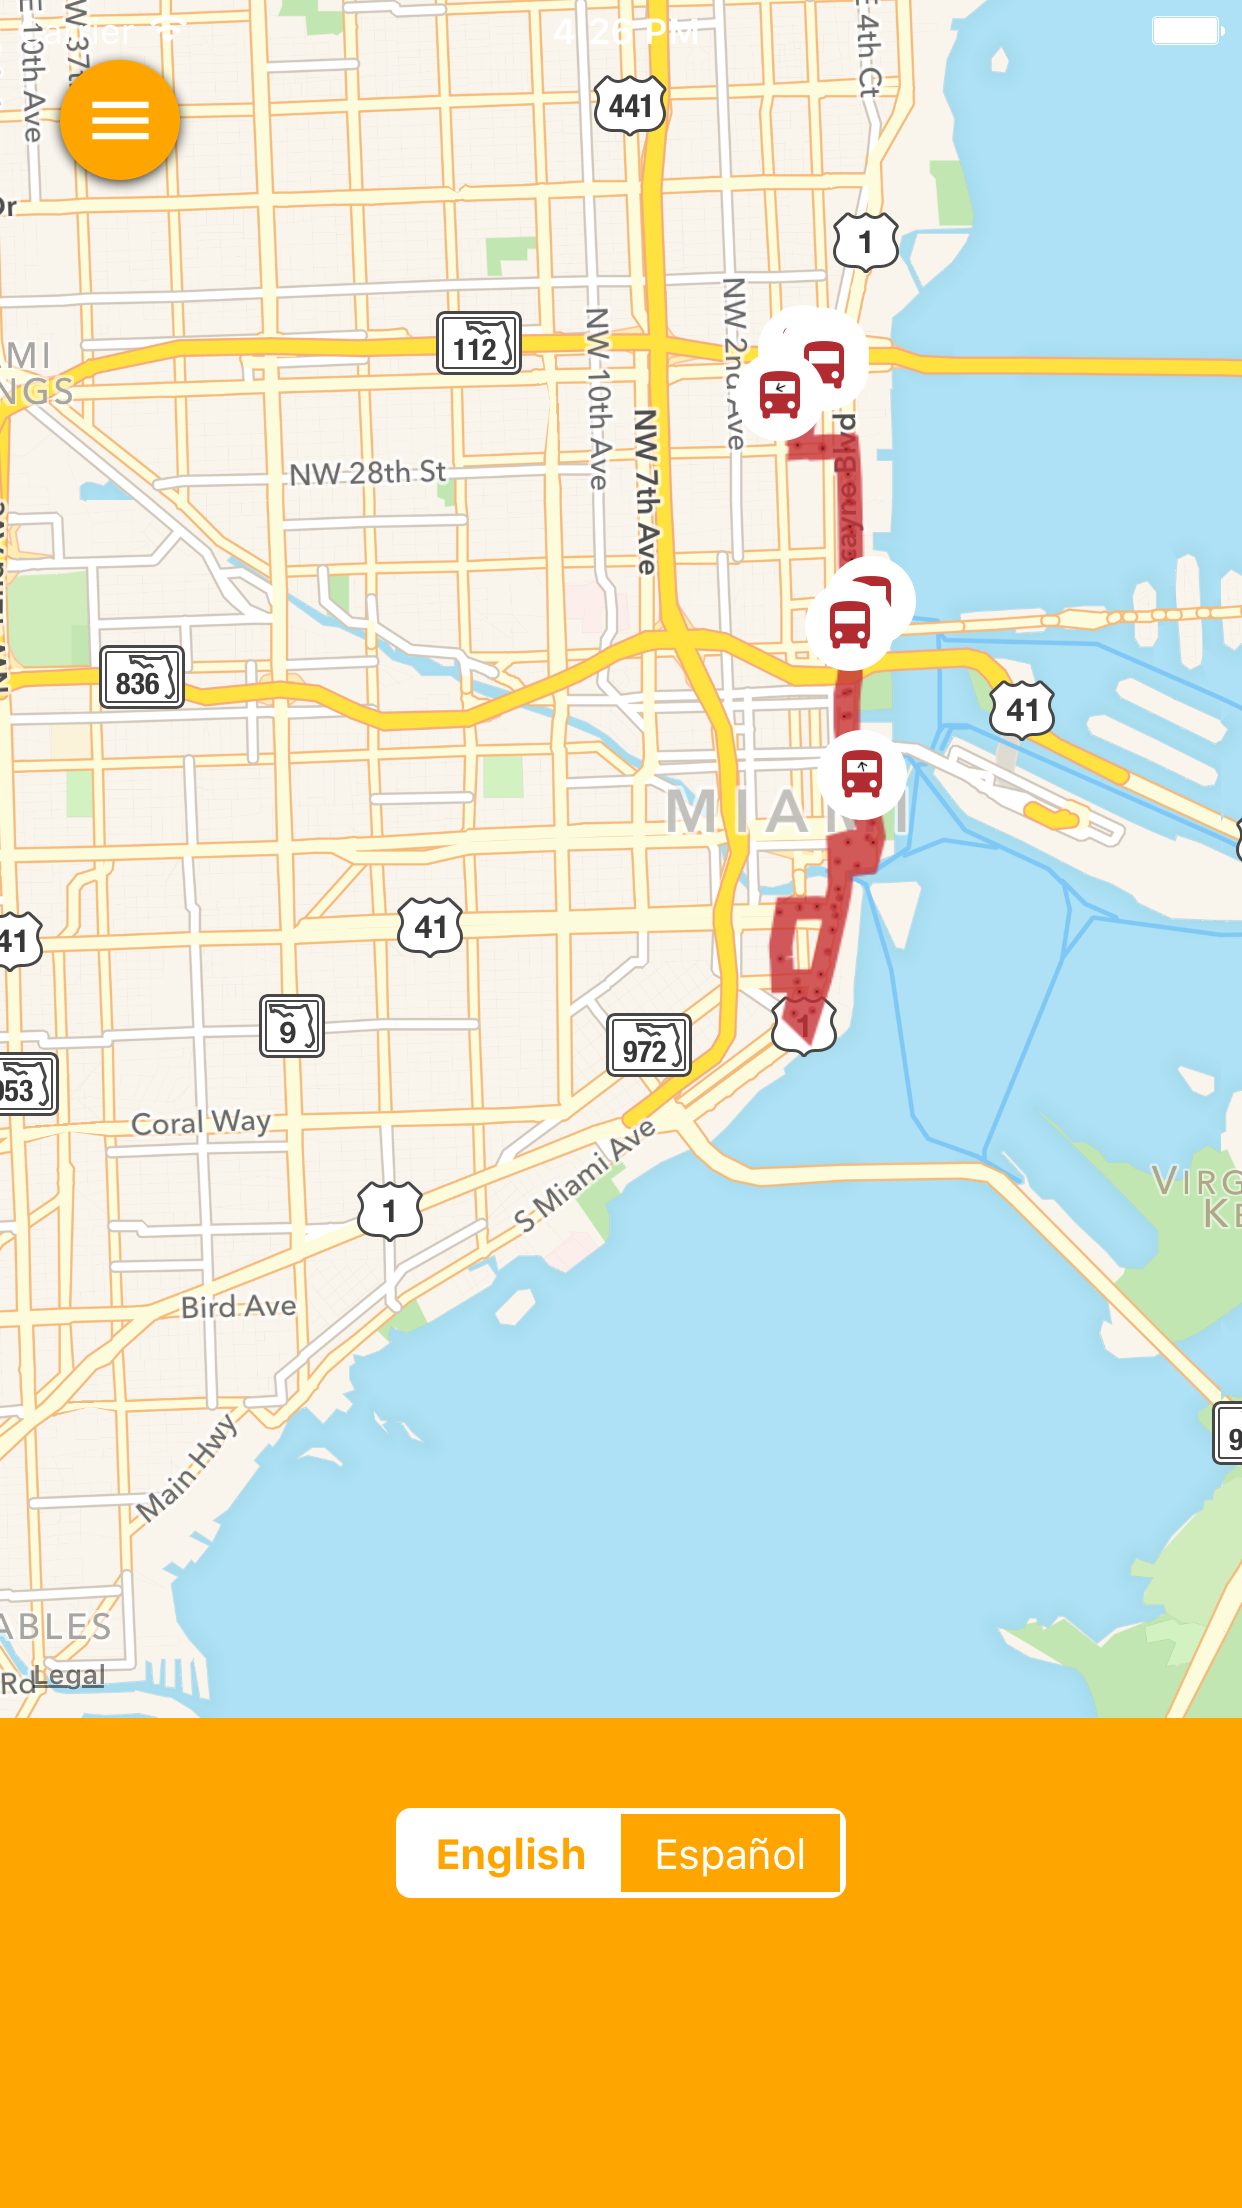
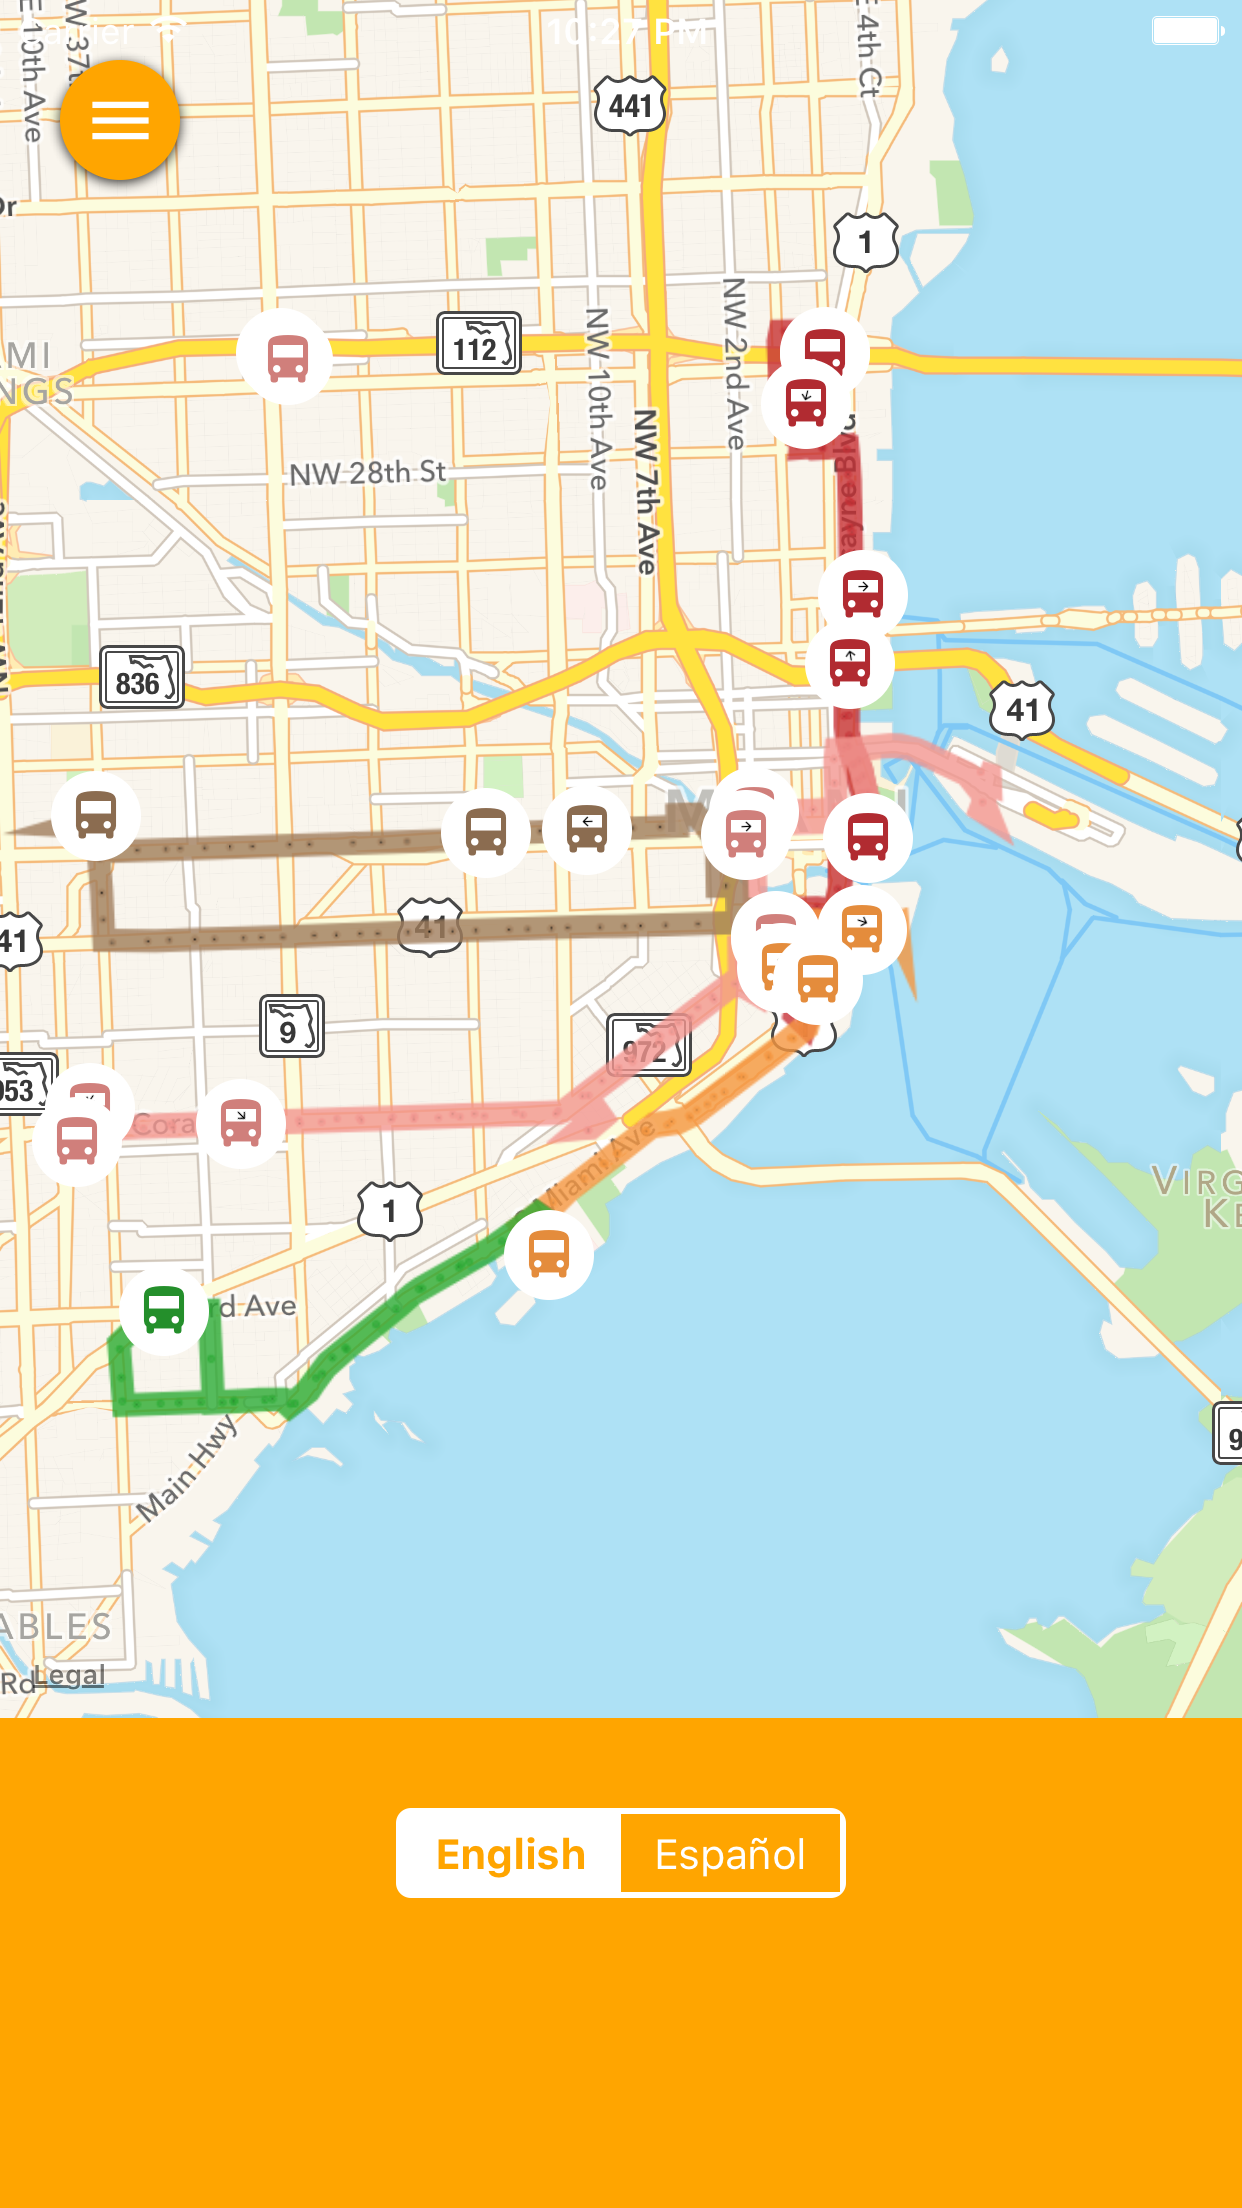
add framed screenshots

diff --git a/ios/screenshots/screenshots.html b/ios/screenshots/screenshots.html
@@ -76,7 +76,7 @@
       <table>
         
           <tr>
-            <th colspan="4">
+            <th colspan="5">
               <span class="deviceName">iPad</span>
             </th>
           </tr>
@@ -134,10 +134,23 @@
                 </a>
               </td>
             
+              
+              <td>
+                
+                
+                <a href="./en-US/iPadAir-05RouteInfo.png" target="_blank" class="screenshotLink">
+                  <img class="screenshot"
+                         src="./en-US/iPadAir-05RouteInfo.png"
+                       style="width: 100%;"
+                         alt="en-US iPad"
+                data-counter="5" />
+                </a>
+              </td>
+            
           </tr>
         
           <tr>
-            <th colspan="4">
+            <th colspan="5">
               <span class="deviceName">iPad Pro</span>
             </th>
           </tr>
@@ -152,7 +165,7 @@
                          src="./en-US/iPadPro-01Initial.png"
                        style="width: 100%;"
                          alt="en-US iPad Pro"
-                data-counter="5" />
+                data-counter="6" />
                 </a>
               </td>
             
@@ -165,7 +178,7 @@
                          src="./en-US/iPadPro-02OpenDrawer.png"
                        style="width: 100%;"
                          alt="en-US iPad Pro"
-                data-counter="6" />
+                data-counter="7" />
                 </a>
               </td>
             
@@ -178,7 +191,7 @@
                          src="./en-US/iPadPro-03ToggleRoute.png"
                        style="width: 100%;"
                          alt="en-US iPad Pro"
-                data-counter="7" />
+                data-counter="8" />
                 </a>
               </td>
             
@@ -191,14 +204,27 @@
                          src="./en-US/iPadPro-04CloseMap.png"
                        style="width: 100%;"
                          alt="en-US iPad Pro"
-                data-counter="8" />
+                data-counter="9" />
+                </a>
+              </td>
+            
+              
+              <td>
+                
+                
+                <a href="./en-US/iPadPro-05RouteInfo.png" target="_blank" class="screenshotLink">
+                  <img class="screenshot"
+                         src="./en-US/iPadPro-05RouteInfo.png"
+                       style="width: 100%;"
+                         alt="en-US iPad Pro"
+                data-counter="10" />
                 </a>
               </td>
             
           </tr>
         
           <tr>
-            <th colspan="4">
+            <th colspan="5">
               <span class="deviceName">iPhone4 (3.5-Inch)</span>
             </th>
           </tr>
@@ -213,7 +239,7 @@
                          src="./en-US/iPhone4s-01Initial.png"
                        style="width: 100%;"
                          alt="en-US iPhone4 (3.5-Inch)"
-                data-counter="9" />
+                data-counter="11" />
                 </a>
               </td>
             
@@ -226,7 +252,7 @@
                          src="./en-US/iPhone4s-02OpenDrawer.png"
                        style="width: 100%;"
                          alt="en-US iPhone4 (3.5-Inch)"
-                data-counter="10" />
+                data-counter="12" />
                 </a>
               </td>
             
@@ -239,7 +265,7 @@
                          src="./en-US/iPhone4s-03ToggleRoute.png"
                        style="width: 100%;"
                          alt="en-US iPhone4 (3.5-Inch)"
-                data-counter="11" />
+                data-counter="13" />
                 </a>
               </td>
             
@@ -252,14 +278,27 @@
                          src="./en-US/iPhone4s-04CloseMap.png"
                        style="width: 100%;"
                          alt="en-US iPhone4 (3.5-Inch)"
-                data-counter="12" />
+                data-counter="14" />
+                </a>
+              </td>
+            
+              
+              <td>
+                
+                
+                <a href="./en-US/iPhone4s-05RouteInfo.png" target="_blank" class="screenshotLink">
+                  <img class="screenshot"
+                         src="./en-US/iPhone4s-05RouteInfo.png"
+                       style="width: 100%;"
+                         alt="en-US iPhone4 (3.5-Inch)"
+                data-counter="15" />
                 </a>
               </td>
             
           </tr>
         
           <tr>
-            <th colspan="4">
+            <th colspan="5">
               <span class="deviceName">iPhone5 (4-Inch)</span>
             </th>
           </tr>
@@ -274,7 +313,7 @@
                          src="./en-US/iPhone5-01Initial.png"
                        style="width: 100%;"
                          alt="en-US iPhone5 (4-Inch)"
-                data-counter="13" />
+                data-counter="16" />
                 </a>
               </td>
             
@@ -287,7 +326,7 @@
                          src="./en-US/iPhone5-02OpenDrawer.png"
                        style="width: 100%;"
                          alt="en-US iPhone5 (4-Inch)"
-                data-counter="14" />
+                data-counter="17" />
                 </a>
               </td>
             
@@ -300,7 +339,7 @@
                          src="./en-US/iPhone5-03ToggleRoute.png"
                        style="width: 100%;"
                          alt="en-US iPhone5 (4-Inch)"
-                data-counter="15" />
+                data-counter="18" />
                 </a>
               </td>
             
@@ -313,14 +352,27 @@
                          src="./en-US/iPhone5-04CloseMap.png"
                        style="width: 100%;"
                          alt="en-US iPhone5 (4-Inch)"
-                data-counter="16" />
+                data-counter="19" />
+                </a>
+              </td>
+            
+              
+              <td>
+                
+                
+                <a href="./en-US/iPhone5-05RouteInfo.png" target="_blank" class="screenshotLink">
+                  <img class="screenshot"
+                         src="./en-US/iPhone5-05RouteInfo.png"
+                       style="width: 100%;"
+                         alt="en-US iPhone5 (4-Inch)"
+                data-counter="20" />
                 </a>
               </td>
             
           </tr>
         
           <tr>
-            <th colspan="4">
+            <th colspan="5">
               <span class="deviceName">iPhone6 (4.7-Inch)</span>
             </th>
           </tr>
@@ -335,7 +387,7 @@
                          src="./en-US/iPhone6-01Initial.png"
                        style="width: 100%;"
                          alt="en-US iPhone6 (4.7-Inch)"
-                data-counter="17" />
+                data-counter="21" />
                 </a>
               </td>
             
@@ -348,7 +400,7 @@
                          src="./en-US/iPhone6-02OpenDrawer.png"
                        style="width: 100%;"
                          alt="en-US iPhone6 (4.7-Inch)"
-                data-counter="18" />
+                data-counter="22" />
                 </a>
               </td>
             
@@ -361,7 +413,7 @@
                          src="./en-US/iPhone6-03ToggleRoute.png"
                        style="width: 100%;"
                          alt="en-US iPhone6 (4.7-Inch)"
-                data-counter="19" />
+                data-counter="23" />
                 </a>
               </td>
             
@@ -374,14 +426,27 @@
                          src="./en-US/iPhone6-04CloseMap.png"
                        style="width: 100%;"
                          alt="en-US iPhone6 (4.7-Inch)"
-                data-counter="20" />
+                data-counter="24" />
+                </a>
+              </td>
+            
+              
+              <td>
+                
+                
+                <a href="./en-US/iPhone6-05RouteInfo.png" target="_blank" class="screenshotLink">
+                  <img class="screenshot"
+                         src="./en-US/iPhone6-05RouteInfo.png"
+                       style="width: 100%;"
+                         alt="en-US iPhone6 (4.7-Inch)"
+                data-counter="25" />
                 </a>
               </td>
             
           </tr>
         
           <tr>
-            <th colspan="4">
+            <th colspan="5">
               <span class="deviceName">iPhone6Plus (5.5-Inch)</span>
             </th>
           </tr>
@@ -396,7 +461,7 @@
                          src="./en-US/iPhone6Plus-01Initial.png"
                        style="width: 100%;"
                          alt="en-US iPhone6Plus (5.5-Inch)"
-                data-counter="21" />
+                data-counter="26" />
                 </a>
               </td>
             
@@ -409,7 +474,7 @@
                          src="./en-US/iPhone6Plus-02OpenDrawer.png"
                        style="width: 100%;"
                          alt="en-US iPhone6Plus (5.5-Inch)"
-                data-counter="22" />
+                data-counter="27" />
                 </a>
               </td>
             
@@ -422,7 +487,7 @@
                          src="./en-US/iPhone6Plus-03ToggleRoute.png"
                        style="width: 100%;"
                          alt="en-US iPhone6Plus (5.5-Inch)"
-                data-counter="23" />
+                data-counter="28" />
                 </a>
               </td>
             
@@ -435,7 +500,20 @@
                          src="./en-US/iPhone6Plus-04CloseMap.png"
                        style="width: 100%;"
                          alt="en-US iPhone6Plus (5.5-Inch)"
-                data-counter="24" />
+                data-counter="29" />
+                </a>
+              </td>
+            
+              
+              <td>
+                
+                
+                <a href="./en-US/iPhone6Plus-05RouteInfo.png" target="_blank" class="screenshotLink">
+                  <img class="screenshot"
+                         src="./en-US/iPhone6Plus-05RouteInfo.png"
+                       style="width: 100%;"
+                         alt="en-US iPhone6Plus (5.5-Inch)"
+                data-counter="30" />
                 </a>
               </td>
             

diff --git a/ios/miamiTrolleyTrackerUITests/miamiTrolleyTrackerUITests.swift b/ios/miamiTrolleyTrackerUITests/miamiTrolleyTrackerUITests.swift
@@ -8,6 +8,7 @@
 
 import XCTest
 import Darwin
+import UIKit
 
 class miamiTrolleyTrackerUITests: XCTestCase {
         
@@ -70,19 +71,34 @@ class miamiTrolleyTrackerUITests: XCTestCase {
 
       app.otherElements["DrawerContentRow-6"].switches["0"].tap()
 
+      let map = app.otherElements["mainMap"]
+      let screenWidth  = UIScreen.mainScreen().bounds.width
+      let screenHeight = UIScreen.mainScreen().bounds.height
+      
       snapshot("03ToggleRoute")
       let overlay = app.otherElements["rootDrawer"]
       overlay.swipeLeft()
       snapshot("04CloseMap")
-      app.otherElements["mainMap"].pinchWithScale(6, velocity: 1)
+//      app.otherElements["mainMap"].swipeLeft()
+
+      app.otherElements["mainMap"].pinchWithScale(2, velocity: 1)
+
+      map.coordinateWithNormalizedOffset(CGVector(dx: 0, dy: 0)).coordinateWithOffset(CGVector(dx: 0.6 * screenWidth, dy: 0.8 * screenHeight)).doubleTap()
+  
+      map.coordinateWithNormalizedOffset(CGVector(dx: 0, dy: 0)).coordinateWithOffset(CGVector(dx: 0.7 * screenWidth, dy: 0.8 * screenHeight)).tap()
+      map.coordinateWithNormalizedOffset(CGVector(dx: 0, dy: 0)).coordinateWithOffset(CGVector(dx: 0.8 * screenWidth, dy: 0.8 * screenHeight)).tap()
+      map.coordinateWithNormalizedOffset(CGVector(dx: 0, dy: 0)).coordinateWithOffset(CGVector(dx: 0.9 * screenWidth, dy: 0.8 * screenHeight)).tap()
+      map.coordinateWithNormalizedOffset(CGVector(dx: 0, dy: 0)).coordinateWithOffset(CGVector(dx: 0.7 * screenWidth, dy: 0.7 * screenHeight)).tap()
+      map.coordinateWithNormalizedOffset(CGVector(dx: 0, dy: 0)).coordinateWithOffset(CGVector(dx: 0.7 * screenWidth, dy: 0.9 * screenHeight)).tap()
+     map.coordinateWithNormalizedOffset(CGVector(dx: 0, dy: 0)).coordinateWithOffset(CGVector(dx: 0.5 * screenWidth, dy: 0.6 * screenHeight)).tap()
+     map.coordinateWithNormalizedOffset(CGVector(dx: 0, dy: 0)).coordinateWithOffset(CGVector(dx: 0.5 * screenWidth, dy: 0.7 * screenHeight)).tap()
+//      map.coordinateWithNormalizedOffset(CGVector(dx: 0, dy: 0)).coordinateWithOffset(CGVector(dx: 0.6 * screenWidth, dy: 0.8 * screenHeight)).doubleTap()
       app.otherElements["menu-fab"].tap()
       app.otherElements["citibike"].switches["0"].tap()
       overlay.swipeLeft()
-      app.otherElements["mainMap"].tap()
-      app.otherElements["mainMap"].swipeLeft()
-      app.otherElements["mainMap"].tap()
-      let map = app.otherElements["mainMap"]
-      map.coordinateWithNormalizedOffset(CGVector(dx: 0, dy: 0)).coordinateWithOffset(CGVector(dx: 150, dy: 150)).tap()
+//      app.otherElements["mainMap"].swipeLeft()
+
+
 //      sleep(5)
 //      map.coordinateWithNormalizedOffset(CGVector(dx: 0, dy: 0)).coordinateWithOffset(CGVector(dx: 150, dy: 150)).tap()
 //      sleep(5)
